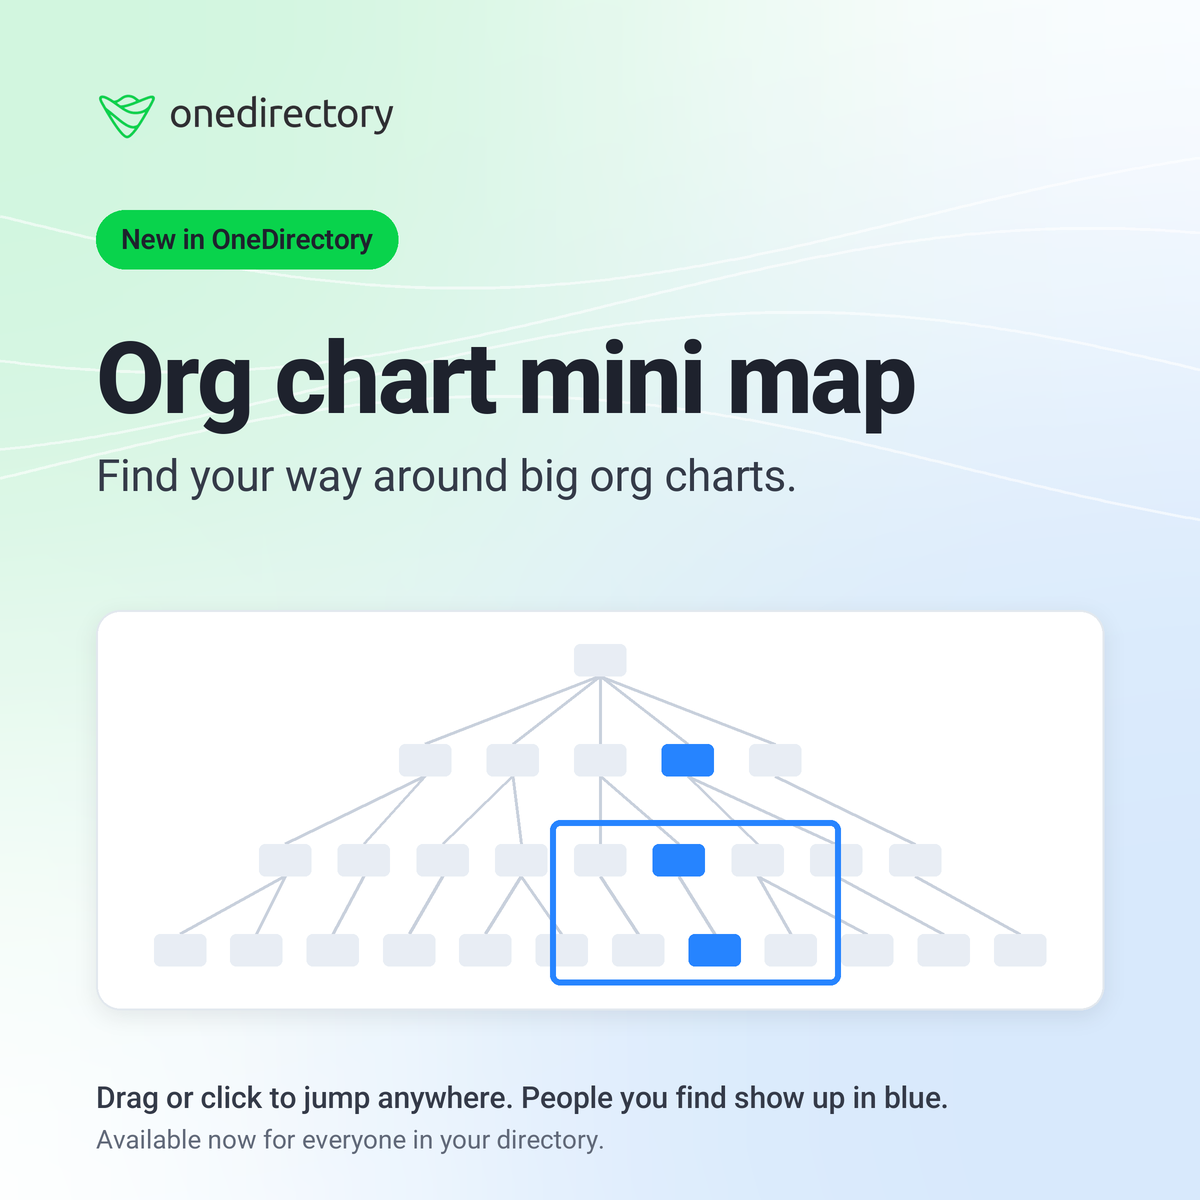
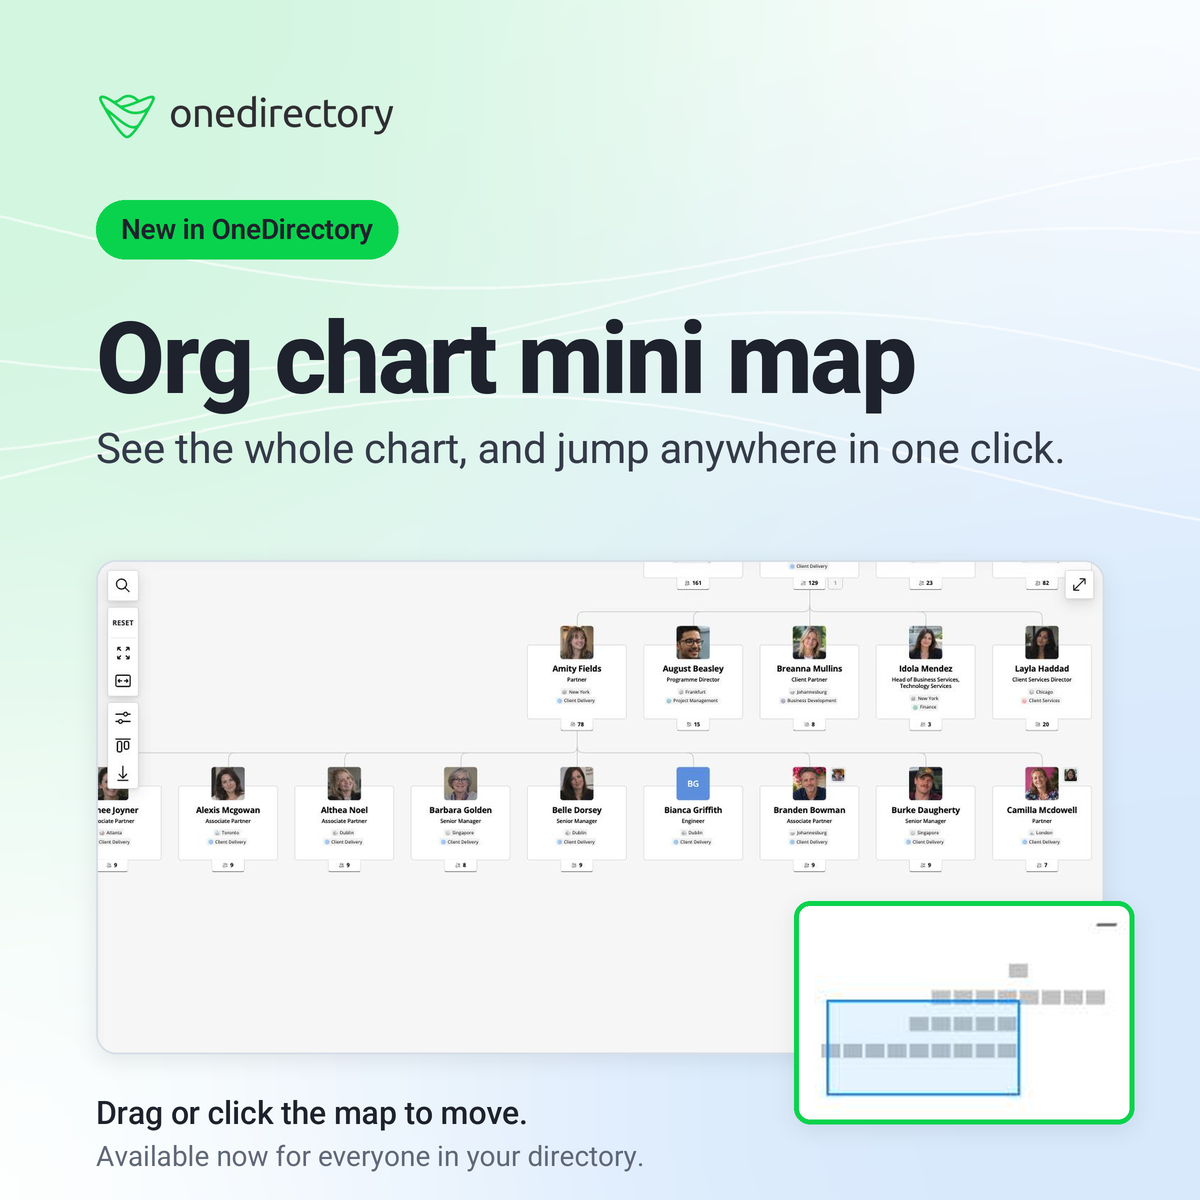
Mini map card with real product screenshot; screenshot library

diff --git a/tools/render2.py b/tools/render2.py
@@ -240,3 +240,39 @@ def newyear_v2():
     finish(img, 'out2/new-year.png')
 
 festive_v2(); newyear_v2()
+
+def frame_shot(img, shot, box, radius=20):
+    """Paste a product screenshot as a rounded, shadowed window."""
+    x0, y0, x1, y1 = box
+    w, h = x1 - x0, y1 - y0
+    sh = shot.resize((w * SS, h * SS), Image.LANCZOS)
+    card(img, box, radius)
+    mask = Image.new('L', sh.size, 0); ImageDraw.Draw(mask).rounded_rectangle((0, 0, sh.width, sh.height), radius=radius * SS, fill=255)
+    img.paste(sh, (x0 * SS, y0 * SS), mask)
+    ImageDraw.Draw(img).rounded_rectangle((x0 * SS, y0 * SS, x1 * SS, y1 * SS), radius=radius * SS, outline=(214, 222, 232), width=2 * SS)
+
+def minimap_v2():
+    W = H = 1200
+    img = canvas(W, H); d = ImageDraw.Draw(img)
+    logo(img, M, 92, 300)
+    pill(d, M, 200, "New in OneDirectory", 28, bg=GREEN, fg=NAVY)
+    y = para(d, M * SS, 300 * SS, "Org chart mini map", F(100, 'ExtraBold'), NAVY, (W - 2 * M) * SS, 1.1)
+    para(d, M * SS, y + 14 * SS, "See the whole chart, and jump anywhere in one click.", F(42, 'Regular'), SUB, (W - 2 * M) * SS, 1.3, -0.005)
+    full = Image.open('shots/orgchart-minimap.jpg').convert('RGB')
+    shot = full.crop((64, 62, 1481, 757))
+    sw = W - 2 * M; sh_h = int(shot.height * sw / shot.width)
+    top = 560
+    frame_shot(img, shot, (M, top, M + sw, top + sh_h))
+    # zoomed callout of the mini map
+    mm = full.crop((1268, 612, 1467, 743))
+    cw = 340; chh = int(mm.height * cw / mm.width)
+    cx1 = W - M + 30; cy1 = top + sh_h + 70
+    box = (cx1 - cw, cy1 - chh, cx1, cy1)
+    frame_shot(img, mm, box, 16)
+    d = ImageDraw.Draw(img)
+    d.rounded_rectangle((box[0] * SS, box[1] * SS, box[2] * SS, box[3] * SS), radius=16 * SS, outline=GREEN, width=5 * SS)
+    tracked(d, (M * SS, (top + sh_h + 40) * SS), "Drag or click the map to move.", F(32, 'Medium'), NAVY, -0.005)
+    tracked(d, (M * SS, (top + sh_h + 86) * SS), "Available now for everyone in your directory.", F(28, 'Regular'), MUTED, 0)
+    finish(img, 'out2/org-chart-mini-map.png')
+
+minimap_v2()
